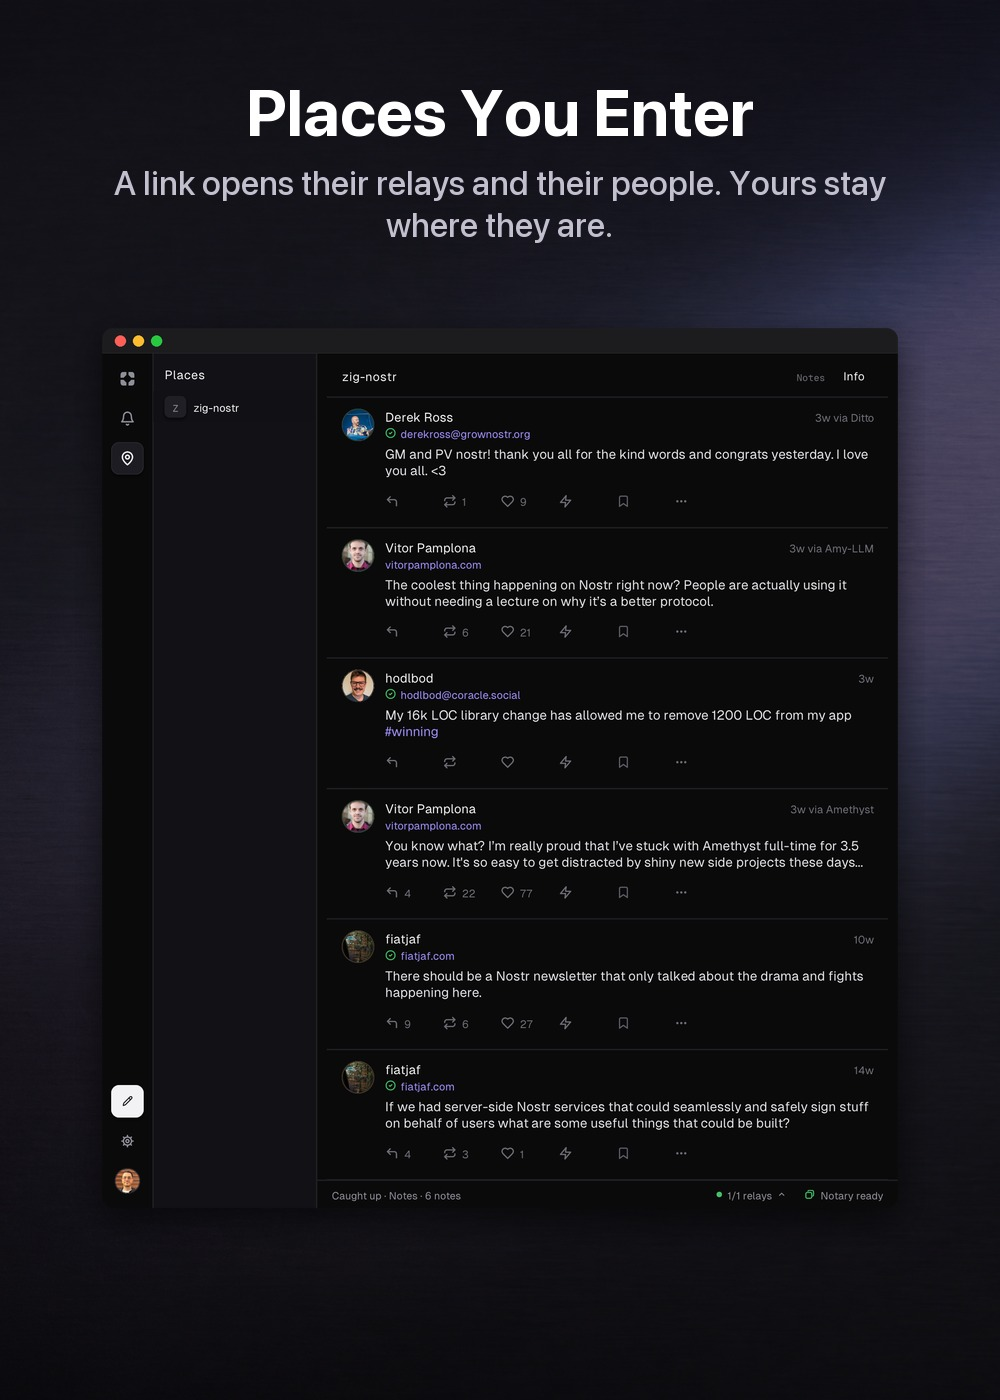
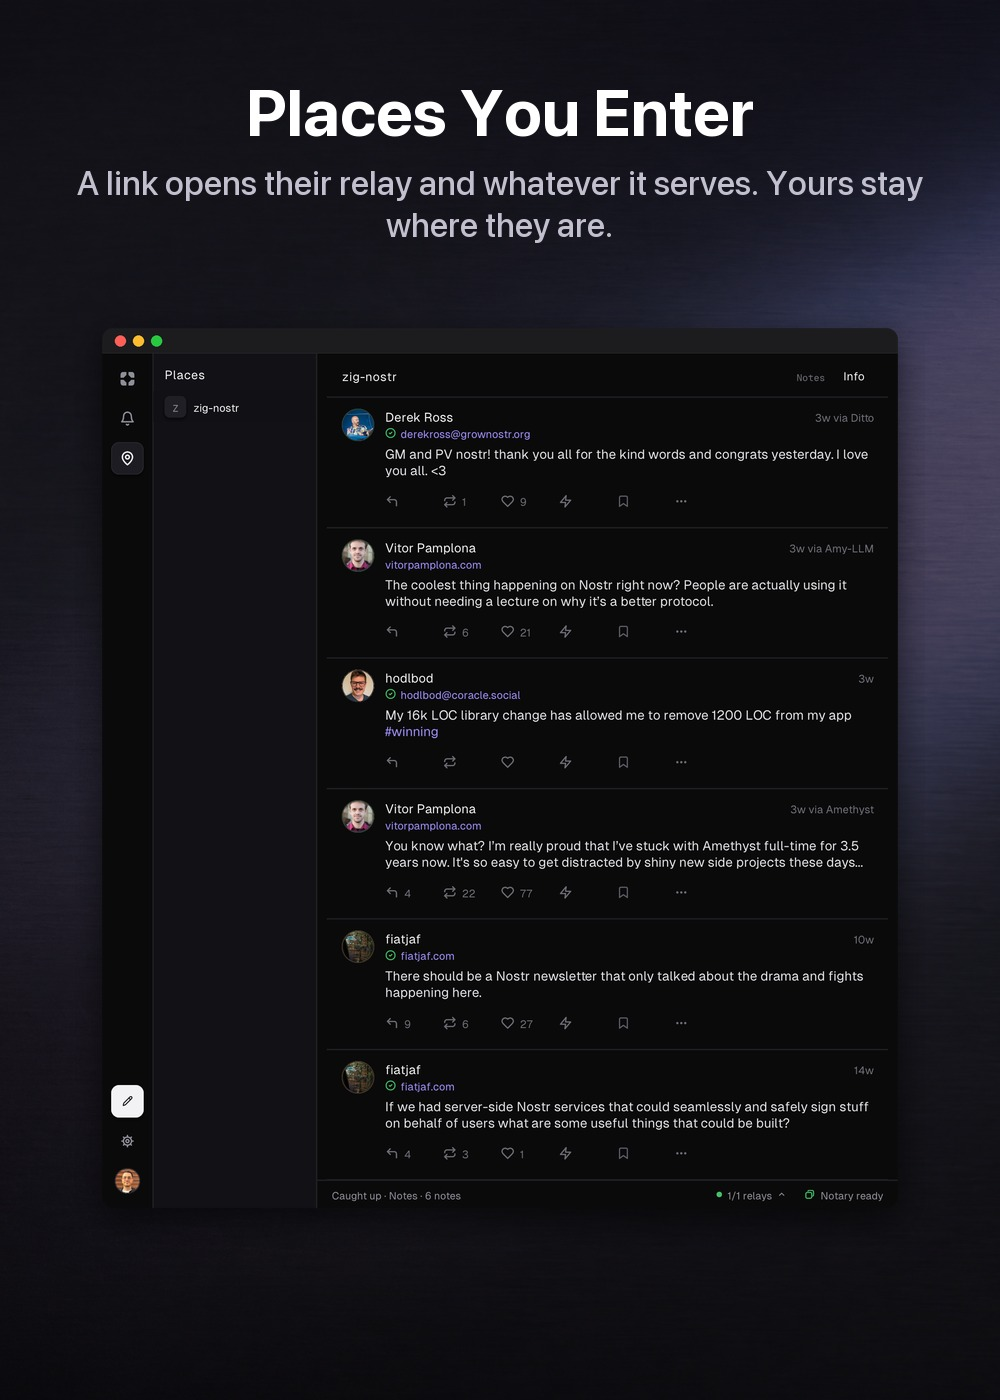
Say where the key actually lives, and how many processes there are (#299)
An audit of the README against the source turned up four claims a reader could
check and find false.

The key is not in ~/.plaza. `State.adopt` calls `keychainStore` first, service
com.zig-nostr.plaza, account signer-key, and writes the 0600 file only when the
Keychain refuses, so a healthy install has no secret sitting in a plain file.
An older identity.key is migrated and deleted once the daemon has it.

Plaza is not one process and does use IPC. `scripts/package-macos.sh` says so
in as many words: the app, plaza-signer, and notary-window. The app spawns the
daemon at launch and health-checks it over loopback on helper_port. The claim
worth making is the narrower one it was reaching for: the pool, the store and
the renderer share one process with no IPC on the read path.

"Your key never touches the app" was attached only to the external signer. It
is true of all three ways in now, because plaza-signer holds the key whichever
way it arrives, so the sentence was underselling the thing it described.

The status paragraph also led with caveats and ended on a vague deferral. It
now opens with what a reader gets and closes by naming the five gaps, which is
the same honesty in the order that reflects the app.

Smaller: the seed feed is 240 notes and 246 events, not 246 notes; the three
install-macos.sh links to a #build anchor land nowhere, because no such heading
has ever existed, and the build instructions are under #install.
[…]

Changed region(s): [[0.062, 0.1229, 0.93, 0.1536]]

diff --git a/README.md b/README.md
@@ -9,17 +9,24 @@ four clicks, and the feed renders from disk. It's built on the
 through [Notary](https://github.com/zig-nostr/notary) so your key never enters a
 client.
 
-> **Status: early.** A first run opens straight into a feed, signed in as
-> nobody: a curated starter pack, already populated, with a strip along the top
-> offering a key when you want one. Create an identity, bring an existing key, or
-> connect an external signer (Notary) over NIP-46 so your key never touches the
-> app. The feed carries real names, avatars and pictures,
-> rendered straight from a local store that a pool of background threads keeps
-> filled, one process, no IPC. Composing signs a note (locally, or by a
-> round-trip to the signer) that is stored at once and published to the pool.
-> A `plaza://place/` link opens somebody else's corner of Nostr: their relay, and
-> whatever that relay serves, without disturbing your own. Private messages land in a milestone
-> ahead. macOS first.
+> **Status: active development (`v0.12.1`).** Plaza installs and runs today. It
+> opens straight into a feed, signed in as nobody: nine accounts to start from,
+> already populated, with a strip along the top offering a key when you want
+> one. Create an identity, bring an existing key, or connect an external signer
+> (Notary) over NIP-46. On a shipped build the key never enters Plaza on any of
+> the three: `plaza-signer` is a separate process that mints or adopts it, keeps
+> it in the login Keychain, and answers signing requests over loopback, so the
+> process decoding images and parsing relay JSON holds no secret. The feed
+> carries real names, avatars and pictures, rendered from a local store that a
+> pool of background threads keeps filled, no IPC on the read path, so it is on
+> screen before any relay answers. Composing signs a note (in the keyholder, or
+> by a round-trip to an external signer), stores it at once and publishes it to
+> the pool. A `plaza://place/` link opens somebody else's corner of Nostr: their
+> relay, and whatever it serves, without disturbing your own.
+>
+> Not there yet, and tracked in the open milestones: putting a picture in a
+> note, setting an avatar, sending a zap, search, and private messages. macOS
+> first.
 
 ![Plaza: a native feed read from disk. Zig and Metal, no Electron, and the feed is a local query.](docs/shots/hero.jpg)
 
@@ -41,8 +48,9 @@ curl -fsSL https://raw.githubusercontent.com/zig-nostr/plaza/main/scripts/instal
 
 macOS on Apple Silicon. The installer verifies the download's SHA-256, installs
 `Plaza.app`, clears the download-quarantine flag so it opens without a Gatekeeper
-detour, and launches it. It touches the bundle and nothing else: your key,
-session and local store live in `~/.plaza` and survive every upgrade.
+detour, and launches it. It touches the bundle and nothing else: your session
+and local store live in `~/.plaza`, your key in the login Keychain, and both
+survive every upgrade.
 
 Plaza is ad-hoc signed and not notarized on purpose. It signs notes with your
 key, so the trust anchor is a build you can reproduce rather than an Apple
@@ -96,7 +104,7 @@ behind a closed door.
 
 The feed is a windowed list: it builds only the rows near the viewport, so what
 it costs follows the window rather than the length of the feed. Measured on the
-build that ships (ReleaseFast), scrolling hard through a fixed feed of 246 notes
+build that ships (ReleaseFast), scrolling hard through a fixed feed of 240 notes
 that the harness seeds into a store of its own, so a run means the same thing
 twice:
 
